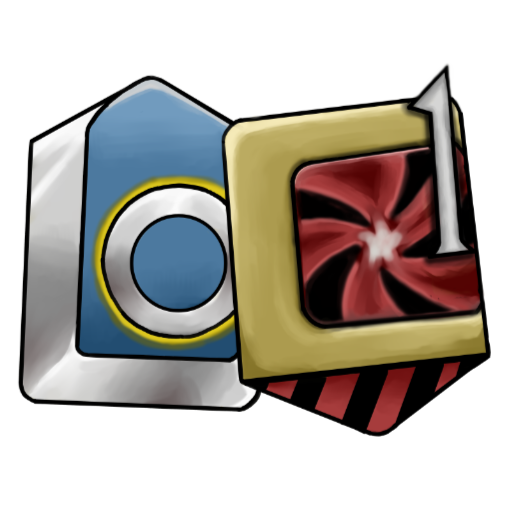
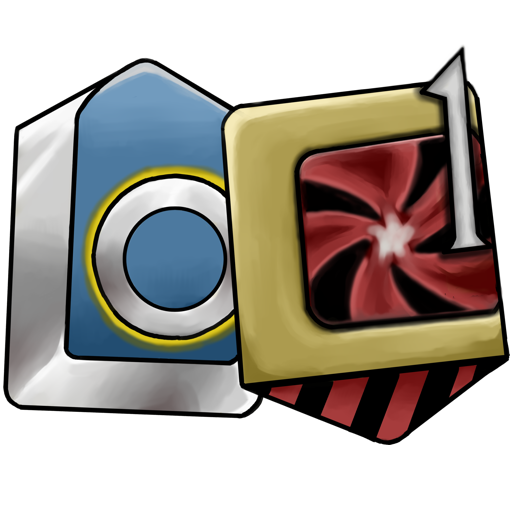
Update assets, correct focus target processor, organize settings tabl, make target display name in presets.

Changed region(s): [[0.0, 0.0938, 1.0, 0.875]]

diff --git a/Loci/UI/Tabs/SettingsTab.cs b/Loci/UI/Tabs/SettingsTab.cs
@@ -51,15 +51,19 @@ public class SettingsTab
         }
 
         CkGui.FontText("Limiters", Fonts.Default150Percent);
+        CkGui.FramedIconText(FAI.Ban);
+        CkGui.TextFrameAlignedInline("Disable in:");
+        ImGui.SameLine();
         var offInDuty = _config.Current.OffInDuty;
-        if (ImGui.Checkbox("Disable in Duties/Instances", ref offInDuty))
+        if (ImGui.Checkbox("Duties/Instances", ref offInDuty))
         {
             _config.Current.OffInDuty = offInDuty;
             _config.Save();
         }
 
+        ImGui.SameLine();
         var offInCombat = _config.Current.OffInCombat;
-        if (ImGui.Checkbox("Disable in Combat", ref offInCombat))
+        if (ImGui.Checkbox("Combat", ref offInCombat))
         {
             _config.Current.OffInCombat = offInCombat;
             _config.Save();
@@ -111,9 +115,9 @@ public class SettingsTab
             _config.Current.FlyText = flyTextOn;
             _config.Save();
         }
-
+        ImGui.SameLine();
         ImGui.SetNextItemWidth(150f);
-        if (ImGui.SliderInt("Fly/Popup Text Limit", ref flyTextLimit, 5, 20))
+        if (ImGui.SliderInt("Limit", ref flyTextLimit, 5, 20))
         {
             _config.Current.FlyTextLimit = flyTextLimit;
             _config.Save();

diff --git a/Loci/UI/Tabs/PresetsTab.cs b/Loci/UI/Tabs/PresetsTab.cs
@@ -10,6 +10,7 @@ using Dalamud.Interface.Colors;
 using Dalamud.Interface.Utility;
 using Dalamud.Interface.Utility.Raii;
 using FFXIVClientStructs.FFXIV.Client.Game.Character;
+using FFXIVClientStructs.FFXIV.Client.Game.Object;
 using Loci.Combos;
 using Loci.Data;
 using Loci.DrawSystem;
@@ -324,8 +325,9 @@ public class PresetsTab : IDisposable
         if (!sm.Ephemeral)
         {
             // Perform without any validation
-            if (ImGui.Button("Apply to Target"))
+            if (CkGui.IconTextButton(FAI.Crosshairs, $"Apply to {chara->NameString}", disabled: chara->ObjectKind is not (ObjectKind.Pc or ObjectKind.Companion)))
                 sm.ApplyPreset(preset);
+            CkGui.AttachToolTip($"Applies the status to the target actor!--SEP----COL--Accepts Players and Minions--COL--", ImGuiColors.DalamudOrange);
         }
         else
         {

diff --git a/Loci/Processors/FocusTargetInfoProcessor.cs b/Loci/Processors/FocusTargetInfoProcessor.cs
@@ -51,8 +51,7 @@ public unsafe class FocusTargetInfoProcessor
     private unsafe void PreAddonRequestedUpdate(AtkUnitBase* addonBase)
     {
         // Get the target so we can handle the case of companions. For these guys, we want to set all statuses back to invisible.
-        var ts = TargetSystem.Instance();
-        var target = ts->SoftTarget is not null ? ts->SoftTarget : ts->Target;
+        var target = TargetSystem.Instance()->FocusTarget;
         if (target is null || !target->IsCharacter() || target->ObjectKind is not ObjectKind.Companion)
             return;
         // Clear visibility of all subnodes.
